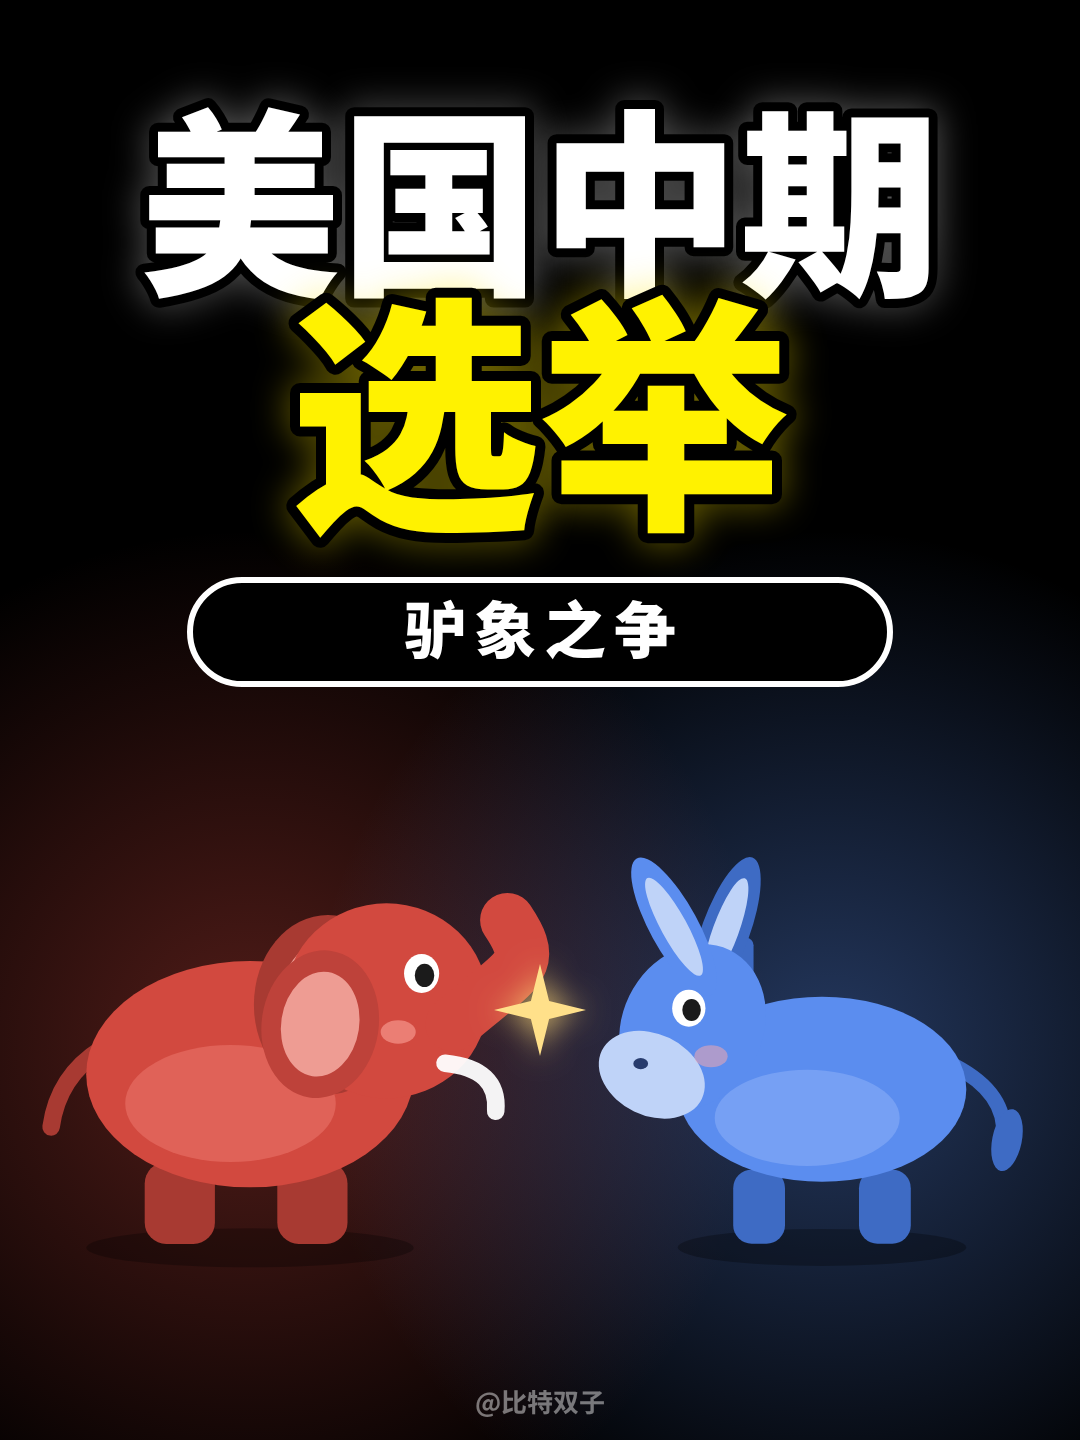
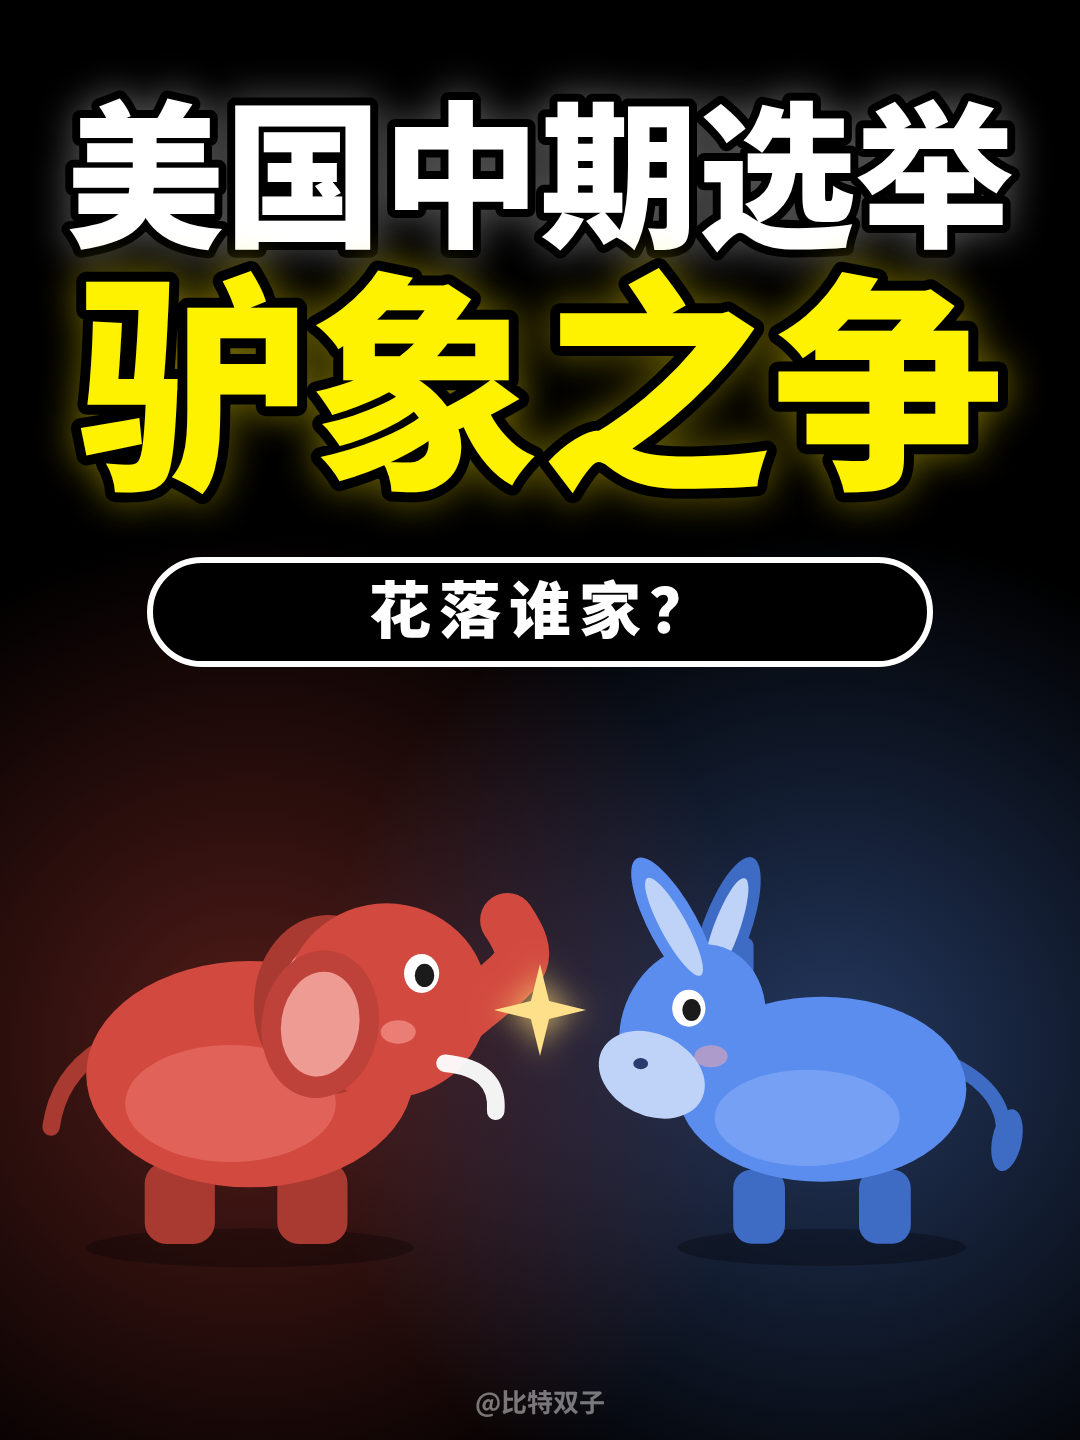
Covers: three lines — 美国中期选举 / 驴象之争 / 花落谁家？
Claude-Session: https://claude.ai/code/session_01Vdfstbm8vk7tRiFVvd8ncG

Changed region(s): [[0.0306, 0.0312, 0.9472, 0.5], [0.8556, 0.4062, 0.8861, 0.4375]]

diff --git a/projects/us_midterms_90s/src/cover.html b/projects/us_midterms_90s/src/cover.html
@@ -92,28 +92,26 @@ function draw() {
   ctx.fillStyle = '#000'; ctx.fillRect(0, 0, W, H);
   if (!WIDE) {
     glow(250, 1050, 520, EL, 0.38); glow(830, 1050, 520, DK, 0.38);
-    outlined('美国中期', 540, 280, 200, '#ffffff', '#000', 18, 'rgba(255,255,255,0.35)');
-    outlined('选举', 540, 510, 250, '#fff200', '#000', 20, 'rgba(255,230,0,0.45)');
-    pill(540, 580, 700, 104, 62, '驴象之争');
+    outlined('美国中期选举', 540, 235, 158, '#ffffff', '#000', 16, 'rgba(255,255,255,0.35)');
+    outlined('驴象之争', 540, 470, 232, '#fff200', '#000', 20, 'rgba(255,230,0,0.45)');
+    pill(540, 560, 780, 104, 62, '花落谁家？');
     elephant(250, 1240, 1.95, { t: 0.3, trunk: 1, mood: 0 });
     donkey(822, 1240, 1.85, { t: 0.5, mood: 0 });
     spark(540, 1010, 46);
     ctx.save(); ctx.font = `700 26px ${SANS}`; ctx.fillStyle = 'rgba(255,255,255,0.45)'; ctx.textAlign = 'center'; ctx.fillText('@比特双子', 540, 1412); ctx.restore();
   } else {
     glow(300, 760, 520, EL, 0.38); glow(1140, 760, 520, DK, 0.38);
-    ctx.font = `900 170px ${SANS}`; const w1 = ctx.measureText('美国中期').width; ctx.font = `900 210px ${SANS}`; const w2 = ctx.measureText('选举').width;
-    const x0 = (W - (w1 + w2 + 20)) / 2;
-    outlined('美国中期', x0, 270, 170, '#ffffff', '#000', 18, 'rgba(255,255,255,0.35)', 'left');
-    outlined('选举', x0 + w1 + 20, 270, 210, '#fff200', '#000', 20, 'rgba(255,230,0,0.45)', 'left');
+    outlined('美国中期选举', W / 2, 190, 128, '#ffffff', '#000', 14, 'rgba(255,255,255,0.35)');
+    outlined('驴象之争', W / 2, 400, 210, '#fff200', '#000', 18, 'rgba(255,230,0,0.45)');
+    pill(W / 2, 450, 560, 100, 56, '花落谁家？');
     elephant(235, 990, 1.95, { t: 0.3, trunk: 1, mood: 0 });
     donkey(1170, 990, 1.9, { t: 0.5, mood: 0 });
-    spark(W / 2, 640, 40);
-    pill(W / 2, 700, 300, 92, 48, '驴象之争');
+    spark(W / 2, 800, 40);
     ctx.save(); ctx.font = `700 26px ${SANS}`; ctx.fillStyle = 'rgba(255,255,255,0.45)'; ctx.textAlign = 'center'; ctx.fillText('@比特双子', W / 2, 1050); ctx.restore();
   }
 }
 window.ready = (async () => {
-  const sample = '美国中期选举驴象之争一次看懂@比特双子';
+  const sample = '美国中期选举驴象之争花落谁家？@比特双子';
   await Promise.all([document.fonts.load(`900 100px ${SANS}`, sample), document.fonts.load(`700 26px ${SANS}`, sample)]);
   await document.fonts.ready; draw(); return true;
 })();
